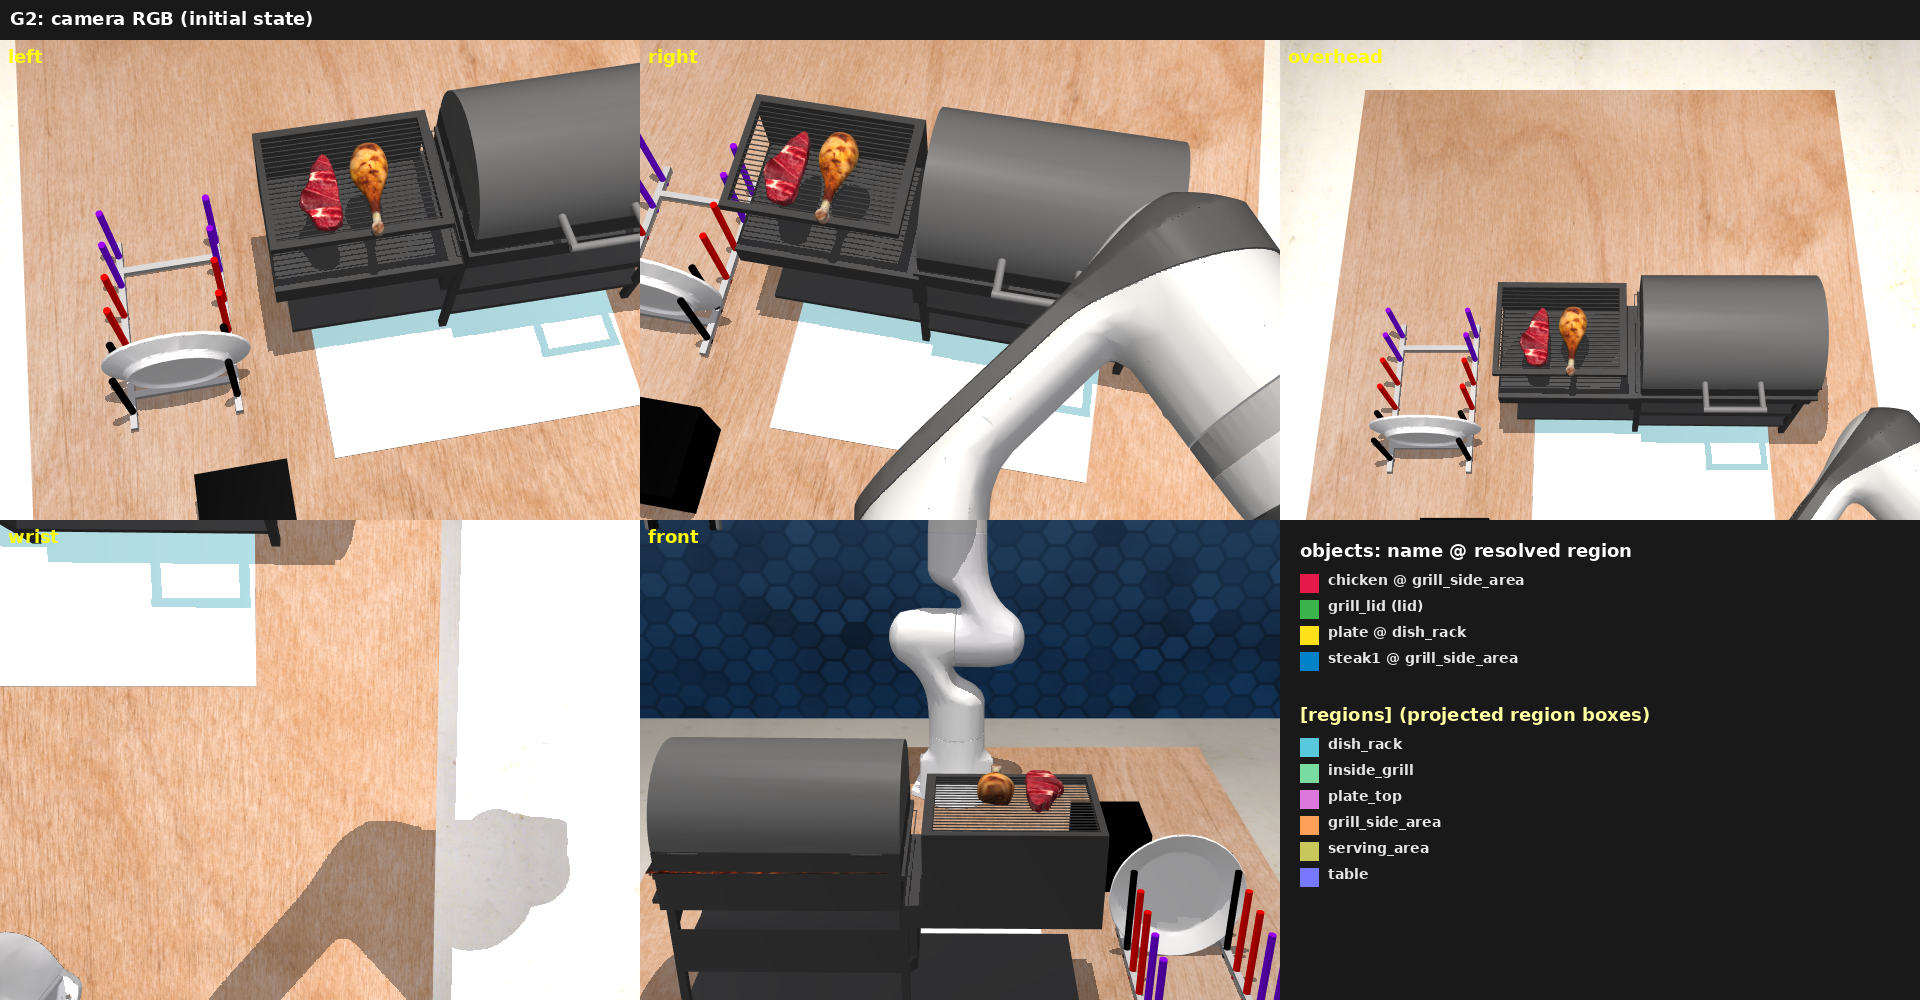
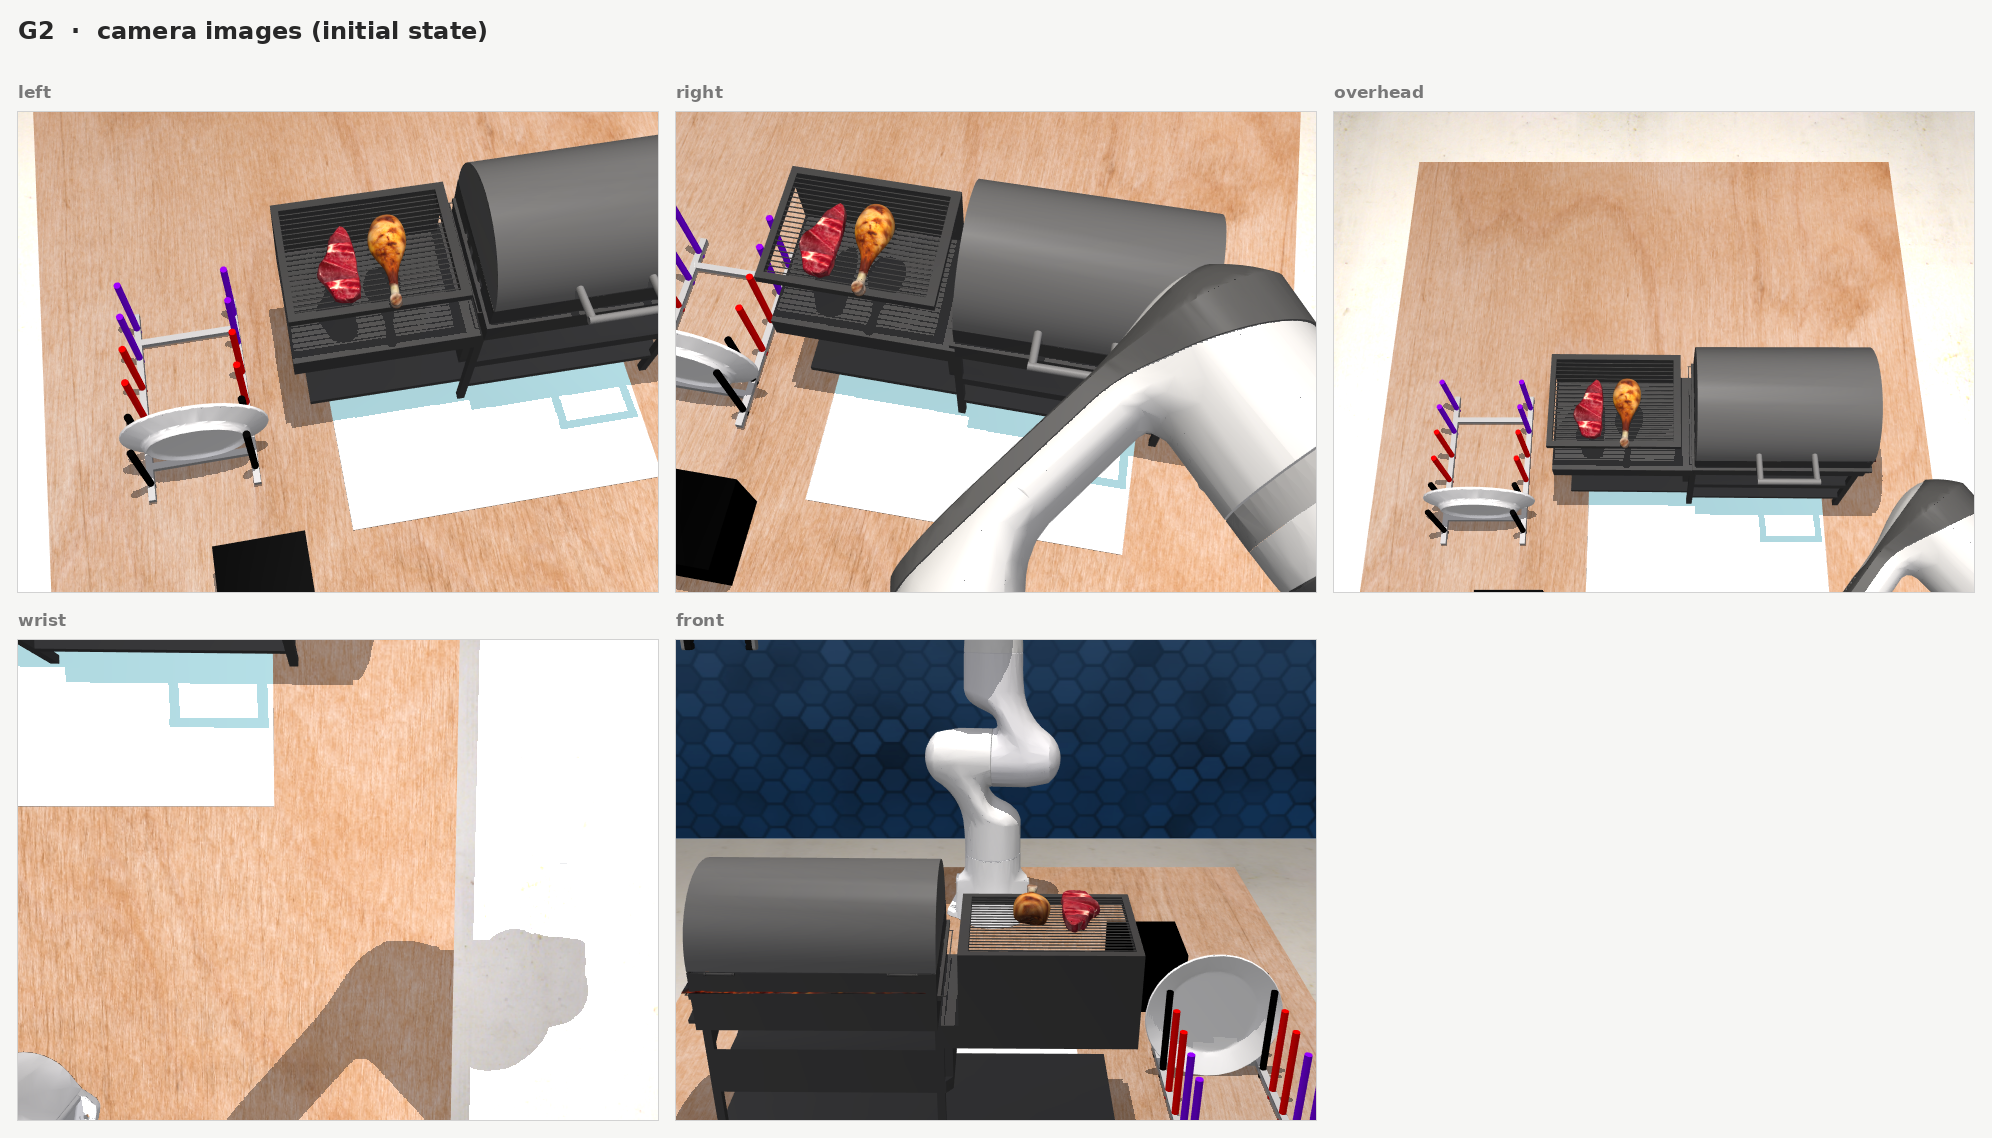
Visuals: isometric view from behind the robot; cleaner semantic sheet
Faded camera image as context, flat object colours, region boxes as thin
outlines with one name tag each, separate object/region palettes, one legend.

diff --git a/mujoco_port/tools/render_semantic_views.py b/mujoco_port/tools/render_semantic_views.py
@@ -4,11 +4,11 @@
     python mujoco_port/tools/render_semantic_views.py G2 --out results/visuals/G2
 
 Writes, for the variant's initial state (MuJoCo backend):
-- isometric.png: orthographic isometric view of the whole scene;
-- cameras_rgb.png: the 5 camera RGB images (left, right, overhead, wrist, front);
-- cameras_semantic.png: per camera, the segmentation-mask pixels the pipeline
-  sees, coloured by object, with each visible object labelled by the region the
-  pipeline resolves for it (planner-facing names, as in prompt v2);
+- isometric.png: isometric view from behind the robot;
+- cameras_rgb.png: the 5 camera images (left, right, overhead, wrist, front);
+- cameras_semantic.png: per camera, the objects the segmentation sees (flat colour,
+  from the pipeline's masks) and the pipeline's region boxes (outlines), on a
+  faded camera image, with one legend (object -> resolved region);
 - semantic_state.json: visible objects, their regions, and pixel counts per camera.
 """
 
@@ -29,19 +29,28 @@ os.environ.setdefault('SIM_BACKEND', 'mujoco')
 import sim_backend  # noqa: E402,F401
 
 CAMERAS = ('left', 'right', 'overhead', 'wrist', 'front')
-REGION_PALETTE = [(120, 120, 255), (255, 160, 90), (120, 220, 160), (220, 120, 220), (200, 200, 90), (90, 200, 220)]
-REGION_COLORS = {}
-PALETTE = [
-    (230, 25, 75), (60, 180, 75), (255, 225, 25), (0, 130, 200), (245, 130, 48), (145, 30, 180),
-    (70, 240, 240), (240, 50, 230), (210, 245, 60), (250, 190, 212), (0, 128, 128), (170, 110, 40),
-]
+CAMERA_ALIASES = {
+    'left': ('left', 'cam_over_shoulder_left'), 'right': ('right', 'cam_over_shoulder_right'),
+    'overhead': ('overhead', 'cam_overhead'), 'wrist': ('wrist', 'cam_wrist'), 'front': ('front', 'cam_front'),
+}
+# Objects: saturated fills. Regions: distinct outline colours.
+OBJECT_PALETTE = [(230, 57, 70), (29, 120, 200), (46, 170, 90), (255, 170, 0), (0, 185, 190),
+                  (240, 110, 170), (150, 200, 40)]
+REGION_PALETTE = [(106, 61, 154), (140, 86, 75), (190, 0, 120), (0, 70, 130), (120, 120, 0),
+                  (70, 70, 70), (0, 120, 110), (160, 60, 0)]
+BACKGROUND = (246, 246, 244)
+INK = (40, 40, 40)
+MUTED = (120, 120, 120)
 
 
-def _font(size):
+def _font(size, bold=False):
     from PIL import ImageFont
-    for path in ('/usr/share/fonts/truetype/dejavu/DejaVuSans-Bold.ttf', '/usr/share/fonts/dejavu/DejaVuSans-Bold.ttf'):
-        if os.path.exists(path):
-            return ImageFont.truetype(path, size)
+    names = ['DejaVuSans-Bold.ttf'] if bold else ['DejaVuSans.ttf']
+    for folder in ('/usr/share/fonts/truetype/dejavu', '/usr/share/fonts/dejavu'):
+        for name in names:
+            path = os.path.join(folder, name)
+            if os.path.exists(path):
+                return ImageFont.truetype(path, size)
     return ImageFont.load_default()
 
 
@@ -56,7 +65,8 @@ def load_env(variant):
     return env
 
 
-def isometric(env, out: Path, size=(1200, 900)):
+def isometric(env, out: Path, size=(1400, 1000)):
+    """Isometric view from behind and to the side of the robot, looking over its base."""
     import mujoco
     from PIL import Image
     world = env.pr._world
@@ -67,51 +77,60 @@ def isometric(env, out: Path, size=(1200, 900)):
     opt.geomgroup[2] = 1
     cam = mujoco.MjvCamera()
     bid = mujoco.mj_name2id(world.m, mujoco.mjtObj.mjOBJ_BODY, 'diningTable')
-    center = world.m.body_pos[bid] + np.array([0.0, 0.0, 0.45]) if bid >= 0 else world.m.stat.center
-    cam.lookat[:] = center
-    cam.distance = 2.4  # stays inside the room (walls 2.5 m from the centre)
-    cam.azimuth = 225.0
-    cam.elevation = -35.264  # isometric elevation; narrow perspective angle below
-    world.m.vis.global_.fovy = 32.0
+    table = world.m.body_pos[bid] if bid >= 0 else world.m.stat.center
+    cam.lookat[:] = np.array([table[0] + 0.05, table[1], table[2] + 0.475])
+    cam.distance = 2.3       # stays inside the room (walls 2.5 m from the centre)
+    cam.azimuth = -35.0      # robot base on the -x side facing +x: camera behind its right shoulder
+    cam.elevation = -35.264  # isometric elevation, narrow perspective angle below
+    world.m.vis.global_.fovy = 34.0
     renderer.update_scene(world.d, cam, scene_option=opt)
     Image.fromarray(renderer.render()).save(out / 'isometric.png')
 
 
 def camera_sensors(env):
     cams = getattr(env, 'cams', {}) or {}
-    aliases = {'left': ('left', 'cam_over_shoulder_left'), 'right': ('right', 'cam_over_shoulder_right'),
-               'overhead': ('overhead', 'cam_overhead'), 'wrist': ('wrist', 'cam_wrist'), 'front': ('front', 'cam_front')}
-    return {name: next((cams[a] for a in aliases[name] if a in cams), None) for name in CAMERAS}
+    return {name: next((cams[a] for a in CAMERA_ALIASES[name] if a in cams), None) for name in CAMERAS}
 
 
 def project(cam, points):
     """World points -> pixel (u, v) for a PyRep vision sensor (RLBench convention)."""
     K = cam.get_intrinsic_matrix()
-    E = np.array(cam.get_matrix()).reshape(4, 4) if np.array(cam.get_matrix()).size == 16 else np.vstack(
-        [np.array(cam.get_matrix()).reshape(3, 4), [0, 0, 0, 1]])
+    M = np.array(cam.get_matrix())
+    E = M.reshape(4, 4) if M.size == 16 else np.vstack([M.reshape(3, 4), [0, 0, 0, 1]])
     R, C = E[:3, :3], E[:3, 3]
     ext = np.concatenate([R.T, -R.T @ C[:, None]], axis=1)
-    homo = np.concatenate([points, np.ones((len(points), 1))], axis=1)
-    cam_pts = (ext @ homo.T).T
-    ok = cam_pts[:, 2] > 0.01
+    cam_pts = (ext @ np.concatenate([points, np.ones((len(points), 1))], axis=1).T).T
     uvw = (K @ cam_pts.T).T
-    uv = uvw[:, :2] / uvw[:, 2:3]
-    return uv, ok
+    return uvw[:, :2] / uvw[:, 2:3], cam_pts[:, 2] > 0.01
 
 
-def camera_frames(env):
-    cams = getattr(env, 'cams', {}) or {}
-    aliases = {'left': ('left', 'cam_over_shoulder_left'), 'right': ('right', 'cam_over_shoulder_right'),
-               'overhead': ('overhead', 'cam_overhead'), 'wrist': ('wrist', 'cam_wrist'), 'front': ('front', 'cam_front')}
-    frames = {}
-    for name in CAMERAS:
-        cam = next((cams[a] for a in aliases[name] if a in cams), None)
-        if cam is None:
-            continue
-        cam.handle_explicitly()
-        rgb = np.asarray(cam.capture_rgb())
-        frames[name] = (np.clip(rgb * 255.0, 0, 255).astype(np.uint8) if rgb.dtype != np.uint8 else rgb)
-    return frames
+def capture_rgb(cam):
+    cam.handle_explicitly()
+    rgb = np.asarray(cam.capture_rgb())
+    return np.clip(rgb * 255.0, 0, 255).astype(np.uint8) if rgb.dtype != np.uint8 else rgb
+
+
+def faded(image, amount=0.72):
+    """Desaturated, lightened camera image used as quiet context."""
+    gray = image.astype(float).mean(axis=2, keepdims=True)
+    return (amount * 255 + (1 - amount) * gray).repeat(3, axis=2).astype(np.uint8)
+
+
+def outline(mask):
+    edge = np.zeros_like(mask)
+    edge[1:, :] |= mask[1:, :] != mask[:-1, :]
+    edge[:, 1:] |= mask[:, 1:] != mask[:, :-1]
+    return edge & mask
+
+
+def label_chip(draw, xy, text, color, font, bounds):
+    x, y = xy
+    left, top, right, bottom = draw.textbbox((0, 0), text, font=font)
+    w, h = right - left + 10, bottom - top + 6
+    x = int(min(max(x, 2), bounds[0] - w - 2))
+    y = int(min(max(y - h - 3, 2), bounds[1] - h - 2))
+    draw.rounded_rectangle([x, y, x + w, y + h], radius=4, fill=color)
+    draw.text((x + 5, y + 3 - top), text, fill=(255, 255, 255), font=font)
 
 
 def main():
@@ -124,7 +143,7 @@ def main():
 
     from PIL import Image, ImageDraw
     from llm_pipeline.object_aliases import canonical_object_name
-    from llm_pipeline.region_aliases import normalize_region_name, planner_region_name
+    from llm_pipeline.region_aliases import normalize_region_name, planner_region_name, scene_object_for_region
     from llm_pipeline.segmentation_adapter import SegmentationEvidenceAdapter
 
     env = load_env(args.variant)
@@ -133,13 +152,10 @@ def main():
     adapter.refresh_visibility(event='initial')
     snapshot = adapter.capture_snapshot(event='initial')
     detector = adapter.detector
-    visible = [name for name in snapshot.visible_objects]
+    visible = list(snapshot.visible_objects)
     regions = dict(snapshot.object_region_map or {})
-    colors = {name: PALETTE[i % len(PALETTE)] for i, name in enumerate(sorted(set(visible) | set(regions)))}
+    object_colors = {name: OBJECT_PALETTE[i % len(OBJECT_PALETTE)] for i, name in enumerate(visible)}
 
-    rgb = camera_frames(env)
-    camera_objects = camera_sensors(env)
-    from llm_pipeline.region_aliases import scene_object_for_region
     region_boxes = {}
     for region in adapter.symbol_registry.regions:
         try:
@@ -148,84 +164,87 @@ def main():
             box = None
         if box:
             region_boxes[normalize_region_name(region)] = (np.array(box[0]), np.array(box[1]))
-    font, small = _font(18), _font(14)
+    region_colors = {name: REGION_PALETTE[i % len(REGION_PALETTE)] for i, name in enumerate(region_boxes)}
+
+    sensors = camera_sensors(env)
+    tag = _font(14, bold=True)
     rgb_tiles, sem_tiles, pixels = [], [], {}
     for name in CAMERAS:
+        cam = sensors.get(name)
         mask = detector._capture_mask(name) if name in detector.cameras else None
-        image = rgb.get(name)
-        if image is None or mask is None:
+        if cam is None or mask is None:
             continue
-        rgb_tiles.append((name, image))
-        semantic = (0.35 * image.astype(float) + 0.65 * 60).astype(np.uint8)  # dim background
+        image = capture_rgb(cam)
+        rgb_tiles.append((name, Image.fromarray(image)))
+        canvas = faded(image)
         pixels[name] = {}
-        centroids = {}
-        region_centroids = {}
         for handle, label in detector.handle_to_task_name.items():
             obj = canonical_object_name(label)
-            if obj not in colors:
+            if obj not in object_colors:
                 continue
             hit = mask == int(handle)
-            count = int(hit.sum())
-            if count == 0:
+            if not hit.any():
                 continue
-            semantic[hit] = colors[obj]
-            pixels[name][obj] = pixels[name].get(obj, 0) + count
-            ys, xs = np.nonzero(hit)
-            centroids.setdefault(obj, []).append((xs.mean(), ys.mean(), count))
-        tile = Image.fromarray(semantic)
+            canvas[hit] = object_colors[obj]
+            canvas[outline(hit)] = (60, 60, 60)
+            pixels[name][obj] = pixels[name].get(obj, 0) + int(hit.sum())
+        tile = Image.fromarray(canvas)
         draw = ImageDraw.Draw(tile)
-        cam_obj = camera_objects.get(name)
-        if cam_obj is not None:
-            for region, (lo, hi) in region_boxes.items():
-                corners = np.array([[lo[0], lo[1], hi[2]], [hi[0], lo[1], hi[2]], [hi[0], hi[1], hi[2]], [lo[0], hi[1], hi[2]]])
-                uv, ok = project(cam_obj, corners)
-                if not ok.all():
-                    continue
-                color = tuple(int(c) for c in REGION_COLORS.setdefault(region, REGION_PALETTE[len(REGION_COLORS) % len(REGION_PALETTE)]))
-                pts = [tuple(map(float, p)) for p in uv]
-                draw.line(pts + [pts[0]], fill=color, width=3)
-                cx, cy = uv.mean(axis=0)
-                if 0 <= cx < tile.width and 0 <= cy < tile.height:
-                    draw.text((cx - 30, cy - 8), f'[{planner_region_name(region)}]', fill=color, font=small)
-        for obj, points in centroids.items():
-            x = sum(p[0] * p[2] for p in points) / sum(p[2] for p in points)
-            y = sum(p[1] * p[2] for p in points) / sum(p[2] for p in points)
-            region = regions.get(obj)
-            text = f'{obj} @ {planner_region_name(region)}' if region else obj
-            draw.text((x + 1, y + 1), text, fill=(0, 0, 0), font=small)
-            draw.text((x, y), text, fill=(255, 255, 255), font=small)
-        sem_tiles.append((name, np.asarray(tile)))
+        for region, (lo, hi) in region_boxes.items():
+            corners = np.array([[lo[0], lo[1], hi[2]], [hi[0], lo[1], hi[2]], [hi[0], hi[1], hi[2]], [lo[0], hi[1], hi[2]]])
+            uv, in_front = project(cam, corners)
+            if not in_front.all():
+                continue
+            if uv[:, 0].max() < 0 or uv[:, 0].min() > tile.width or uv[:, 1].max() < 0 or uv[:, 1].min() > tile.height:
+                continue
+            points = [tuple(map(float, p)) for p in uv]
+            draw.line(points + [points[0]], fill=region_colors[region], width=2, joint='curve')
+            top = min(points, key=lambda p: p[1])
+            label_chip(draw, top, planner_region_name(region), region_colors[region], tag, tile.size)
+        sem_tiles.append((name, tile))
 
-    def grid(tiles, title):
-        h, w = tiles[0][1].shape[:2]
+    def sheet(tiles, title, legend):
+        w, h = tiles[0][1].size
+        pad, head, cap = 18, 64, 30
         cols = 3
         rows = (len(tiles) + cols - 1) // cols
-        canvas = Image.new('RGB', (cols * w, rows * h + 40), (25, 25, 25))
-        draw = ImageDraw.Draw(canvas)
-        draw.text((10, 8), title, fill=(255, 255, 255), font=font)
+        width = cols * w + (cols + 1) * pad
+        height = head + rows * (h + cap) + (rows + 1) * pad
+        page = Image.new('RGB', (width, height), BACKGROUND)
+        draw = ImageDraw.Draw(page)
+        draw.text((pad, 16), title, fill=INK, font=_font(24, bold=True))
         for i, (name, image) in enumerate(tiles):
-            x, y = (i % cols) * w, 40 + (i // cols) * h
-            canvas.paste(Image.fromarray(image), (x, y))
-            draw.text((x + 8, y + 6), name, fill=(255, 255, 0), font=font)
-        # legend in the empty last cell
-        if len(tiles) < rows * cols:
-            x, y = (len(tiles) % cols) * w + 20, 40 + (len(tiles) // cols) * h + 20
-            draw.text((x, y), 'objects: name @ resolved region', fill=(255, 255, 255), font=font)
-            j = 0
-            for j, (obj, color) in enumerate(sorted(colors.items())):
-                region = regions.get(obj)
-                draw.rectangle([x, y + 34 + 26 * j, x + 18, y + 52 + 26 * j], fill=color)
-                label = f'{obj} @ {planner_region_name(region)}' if region else f'{obj} (lid)'
-                draw.text((x + 28, y + 32 + 26 * j), label, fill=(230, 230, 230), font=small)
-            y2 = y + 34 + 26 * (j + 2)
-            draw.text((x, y2), '[regions] (projected region boxes)', fill=(255, 255, 160), font=font)
-            for k, (region, color) in enumerate(sorted(REGION_COLORS.items())):
-                draw.rectangle([x, y2 + 34 + 26 * k, x + 18, y2 + 52 + 26 * k], fill=tuple(int(c) for c in color))
-                draw.text((x + 28, y2 + 32 + 26 * k), planner_region_name(region), fill=(230, 230, 230), font=small)
-        return canvas
+            x = pad + (i % cols) * (w + pad)
+            y = head + pad + (i // cols) * (h + cap + pad)
+            draw.text((x, y), name, fill=MUTED, font=_font(17, bold=True))
+            page.paste(image, (x, y + cap))
+            draw.rectangle([x - 1, y + cap - 1, x + w, y + cap + h], outline=(210, 210, 210))
+        if legend and len(tiles) < rows * cols:
+            x = pad + (len(tiles) % cols) * (w + pad) + 10
+            y = head + pad + (len(tiles) // cols) * (h + cap + pad)
+            legend(draw, x, y)
+        return page
 
-    grid(rgb_tiles, f'{args.variant}: camera RGB (initial state)').save(out / 'cameras_rgb.png')
-    grid(sem_tiles, f'{args.variant}: segmentation masks by object (colour) and region boxes (outlines)').save(
+    def legend(draw, x, y):
+        head, body = _font(17, bold=True), _font(16)
+        draw.text((x, y), 'Objects  (resolved region)', fill=INK, font=head)
+        y += 32
+        for obj, color in object_colors.items():
+            draw.rounded_rectangle([x, y + 2, x + 18, y + 20], radius=3, fill=color, outline=(60, 60, 60))
+            region = regions.get(obj)
+            draw.text((x + 30, y), obj, fill=INK, font=body)
+            draw.text((x + 150, y), planner_region_name(region) if region else '(lid)', fill=MUTED, font=body)
+            y += 28
+        y += 18
+        draw.text((x, y), 'Regions  (outlines)', fill=INK, font=head)
+        y += 32
+        for region, color in region_colors.items():
+            draw.line([(x, y + 11), (x + 18, y + 11)], fill=color, width=4)
+            draw.text((x + 30, y), planner_region_name(region), fill=INK, font=body)
+            y += 26
+
+    sheet(rgb_tiles, f'{args.variant}  ·  camera images (initial state)', None).save(out / 'cameras_rgb.png')
+    sheet(sem_tiles, f'{args.variant}  ·  what the pipeline sees: objects (segmentation) and regions', legend).save(
         out / 'cameras_semantic.png')
     (out / 'semantic_state.json').write_text(json.dumps({
         'variant': args.variant,
